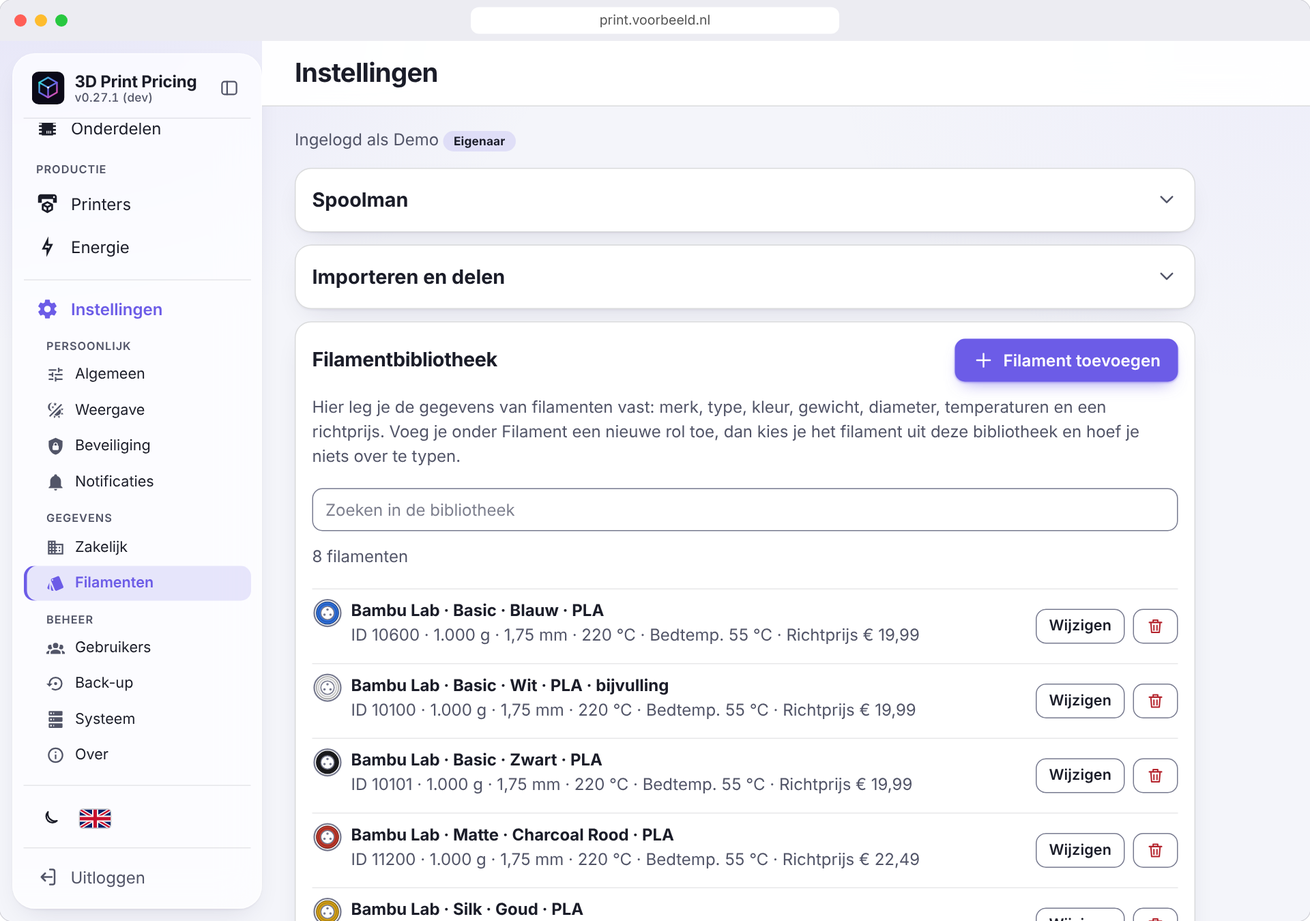
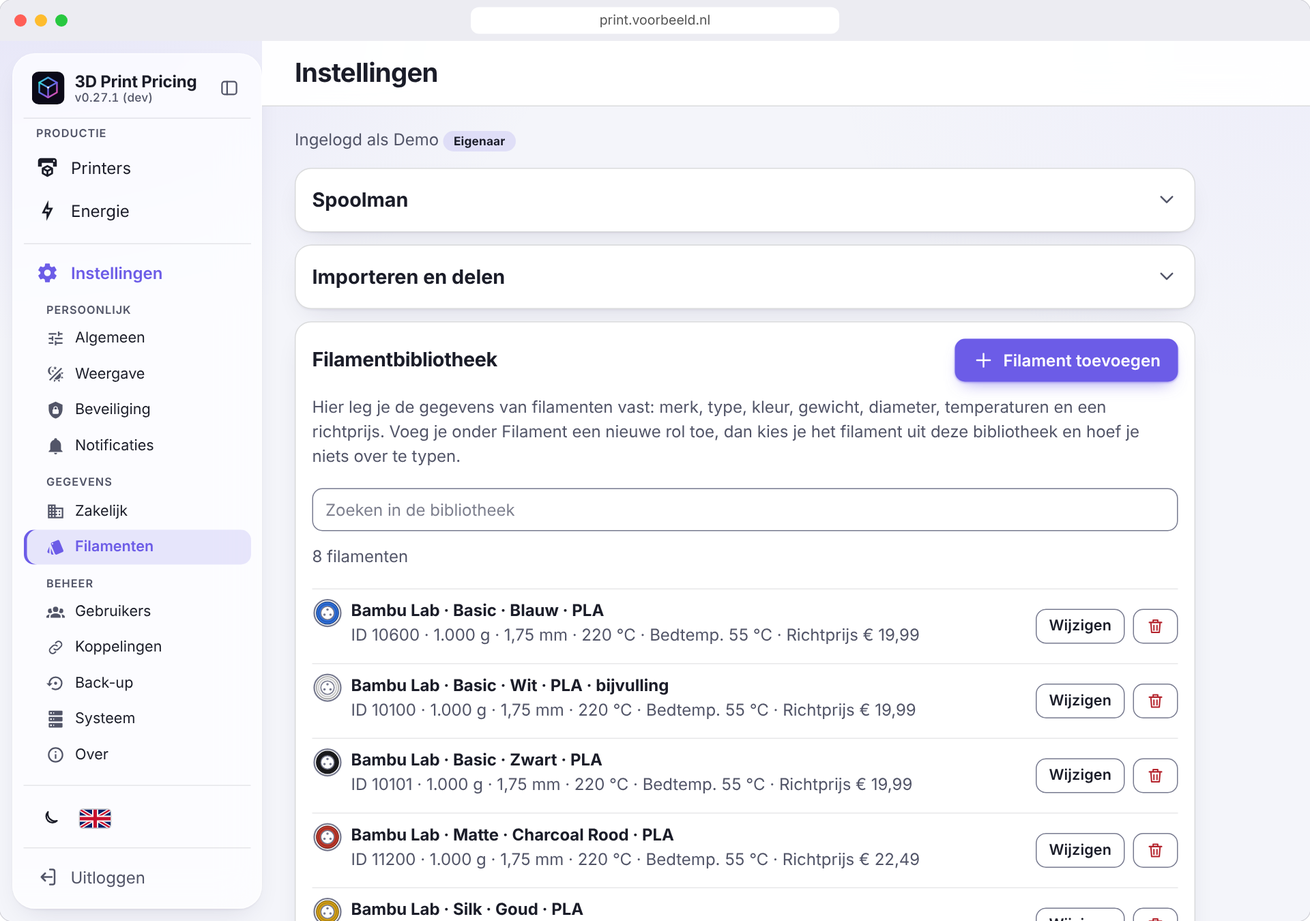
feat(settings): Integrations, to manage API keys and webhooks
Settings -> Beheer -> Koppelingen, for administrators. API keys: the
address of the API, the keys with their first characters and when they
were last used, making one (shown once, with a copy button) and revoking
one. Webhooks: the endpoints with their state (off and why, messages
waiting or failed, a key that can no longer be read), switching one on
or off, a test message, a new signing key, the delivery log with the
reason of a failure and "send again", and adding one with the events to
report.

The guide gets a section with the fields of the API, the message, how to
check the signature and the retry schedule; both READMEs name the
feature; AGENTS.md section 6i holds the rules for later work. The
screenshots are retaken (the settings menu has the new part).

Claude-Session: https://claude.ai/code/session_01KSdu54AFun4xRkPWcygQm9

Changed region(s): [[0.0312, 0.1244, 0.125, 0.7156], [0.0625, 0.7778, 0.0938, 0.8089]]

diff --git a/frontend/js/integrations.js b/frontend/js/integrations.js
@@ -1,0 +1,187 @@
+// Settings -> Koppelingen (administrators only; the server refuses these calls to anyone else): API keys, with which another application
+// reads orders, invoices and customers, and webhooks, which tell another application that something happened. A key and a signing key are
+// shown once, when they are made: the server keeps only a hash of the first and a sealed copy of the second.
+import { api } from './api.js';
+import { formatDateTime, t } from './i18n.js';
+import { confirmIdentity } from './password.js';
+import { field, fill, h, icon, switchRow, toast } from './ui.js';
+
+// What a webhook can be told: [name the server knows it by, label key]. The order is the server's.
+const EVENT_LABELS = { 'invoice.created': 'hooks.ev_invoice_created', 'invoice.updated': 'hooks.ev_invoice_updated', 'order.created': 'hooks.ev_order_created',
+  'order.updated': 'hooks.ev_order_updated', 'order.status_changed': 'hooks.ev_order_status', 'order.deleted': 'hooks.ev_order_deleted', ping: 'hooks.ev_ping' };
+const STATE_LABELS = { pending: 'hooks.state_pending', delivered: 'hooks.state_delivered', dead: 'hooks.state_dead' };
+const eventName = (event) => (EVENT_LABELS[event] ? t(EVENT_LABELS[event]) : event);
+const when = (value) => (value ? formatDateTime(value) : '—');
+
+/** The box that shows a fresh key, with a Copy button: the only time it can be seen. */
+function onceBox(value, title, hint) {
+  const input = h('input', { type: 'text', class: 'mono', readonly: true, value, 'aria-label': title, onfocus: (e) => e.target.select() });
+  return h('div', { class: 'notice info stack', role: 'status' },
+    h('strong', {}, title),
+    h('div', { class: 'row nowrap' }, input, h('button', { class: 'btn', type: 'button', onclick: async () => {
+      try { await navigator.clipboard.writeText(value); toast(t('common.copied')); } catch { input.select(); toast(t('common.copy_failed'), 'error'); }
+    } }, icon('copy'), h('span', {}, t('common.copy')))),
+    h('p', { class: 'hint' }, hint));
+}
+
+function keysCard() {
+  const list = h('div', { class: 'stack' }, h('p', { class: 'muted' }, t('common.loading')));
+  const shown = h('div');
+  const name = h('input', { type: 'text', autocomplete: 'off', maxlength: 60, required: true, placeholder: t('keys.name_ph') });
+  const address = `${location.origin}/api/v1`;
+
+  async function load() {
+    let data;
+    try { data = await api('GET', '/api/integrations/keys'); } catch (e) { fill(list, h('p', { class: 'error', role: 'alert' }, e.message)); return; }
+    fill(list, data.keys.length ? h('ul', { class: 'plain-list' }, data.keys.map((key) => h('li', { class: 'list-row' },
+      h('div', {}, h('strong', {}, key.name), ' ', h('code', {}, `${key.shown}…`),
+        h('p', { class: 'muted' }, `${t('keys.made', { date: when(key.created_at) })} · ${key.last_used_at ? t('keys.used', { date: when(key.last_used_at) }) : t('keys.never_used')}`)),
+      h('button', { class: 'btn small danger', type: 'button', onclick: () => revoke(key) }, icon('trash'), h('span', {}, t('keys.revoke'))))))
+      : h('p', { class: 'muted' }, t('keys.none')));
+  }
+
+  async function create(e) {
+    e.preventDefault();
+    const proof = await confirmIdentity({ action: 'api-key-create', title: t('keys.confirm_title'), message: t('keys.confirm_msg'), confirmLabel: t('keys.make') });
+    if (!proof) return;                                              // cancelled: nothing is made
+    try {
+      const made = await api('POST', '/api/integrations/keys', { name: name.value.trim(), ...proof });
+      name.value = '';
+      fill(shown, onceBox(made.key, t('keys.once_title', { name: made.item.name }), t('keys.once_hint')));
+      load();
+    } catch (err) { toast(err.message, 'error'); }
+  }
+
+  async function revoke(key) {
+    const proof = await confirmIdentity({ action: 'api-key-revoke', target: key.id, title: t('keys.revoke_title'),
+      message: t('keys.revoke_msg', { name: key.name }), confirmLabel: t('keys.revoke') });
+    if (!proof) return;
+    try { await api('DELETE', `/api/integrations/keys/${key.id}`, proof); toast(t('keys.revoked', { name: key.name })); fill(shown); load(); } catch (e) { toast(e.message, 'error'); }
+  }
+
+  load();
+  return h('div', { class: 'glass card stack' },
+    h('h2', {}, t('keys.title')),
+    h('p', { class: 'muted' }, t('keys.intro')),
+    h('dl', { class: 'kv' }, h('span', {}, t('keys.address')), h('strong', {}, h('code', {}, address))),
+    list, shown,
+    h('form', { class: 'row', onsubmit: create }, h('div', { class: 'grow' }, field(t('keys.name'), name, t('keys.name_hint'))),
+      h('button', { class: 'btn primary', type: 'submit' }, icon('plus'), h('span', {}, t('keys.make')))));
+}
+
+function hooksCard() {
+  const list = h('div', { class: 'stack' }, h('p', { class: 'muted' }, t('common.loading')));
+  const shown = h('div');
+  const name = h('input', { type: 'text', autocomplete: 'off', maxlength: 60, required: true, placeholder: t('hooks.name_ph') });
+  const url = h('input', { type: 'url', inputmode: 'url', autocomplete: 'off', maxlength: 500, required: true, placeholder: 'https://finance.example.nl/hooks/printpricing' });
+  const picks = h('div', { class: 'checks' });
+  let events = [];
+
+  const drawPicks = () => fill(picks, events.map((event) => h('label', { class: 'check' },
+    h('input', { type: 'checkbox', value: event, checked: event.startsWith('invoice.') }), eventName(event))));
+  const picked = () => [...picks.querySelectorAll('input:checked')].map((box) => box.value);
+
+  /** The last messages to one address: what, how it went and why not, with "send again" for one that was given up. */
+  function logOf(endpoint) {
+    const body = h('div', { class: 'stack' });
+    async function draw() {
+      fill(body, h('p', { class: 'muted' }, t('common.loading')));
+      try {
+        const { deliveries } = await api('GET', `/api/integrations/webhooks/${endpoint.id}/deliveries`);
+        fill(body, deliveries.length ? h('ul', { class: 'plain-list hook-log' }, deliveries.map((d) => h('li', { class: 'list-row' },
+          h('div', {}, h('strong', {}, eventName(d.event)), ' ', h('span', { class: `pill ${d.state === 'delivered' ? 'ok' : d.state === 'dead' ? 'error' : 'warn'}` }, t(STATE_LABELS[d.state])),
+            h('p', { class: 'muted' }, [when(d.created_at), t('hooks.attempts', { n: d.attempts }),
+              d.last_error ? t(d.last_error, { code: d.last_status ?? '' }) : null,
+              d.state === 'pending' && d.next_attempt_at ? t('hooks.next', { date: when(d.next_attempt_at) }) : null].filter(Boolean).join(' · '))),
+          d.state === 'dead' && d.event !== 'ping' ? h('button', { class: 'btn small', type: 'button', onclick: async () => {
+            try { await api('POST', `/api/integrations/webhooks/${endpoint.id}/deliveries/${d.id}/retry`); toast(t('hooks.queued')); draw(); load(); } catch (e) { toast(e.message, 'error'); }
+          } }, icon('sync'), h('span', {}, t('hooks.retry'))) : null))) : h('p', { class: 'muted' }, t('hooks.log_empty')));
+      } catch (e) { fill(body, h('p', { class: 'error', role: 'alert' }, e.message)); }
+    }
+    return h('details', { ontoggle: (e) => { if (e.target.open) draw(); } }, h('summary', {}, t('hooks.log')), body);
+  }
+
+  function row(endpoint) {
+    const state = [
+      endpoint.enabled ? null : h('span', { class: 'pill warn' }, endpoint.disabled_reason === 'failing' ? t('hooks.off_failing') : endpoint.disabled_reason === 'gone' ? t('hooks.off_gone') : t('hooks.off')),
+      endpoint.readable ? null : h('span', { class: 'pill error' }, t('hooks.unreadable')),
+      endpoint.waiting ? h('span', { class: 'pill' }, t('hooks.waiting', { n: endpoint.waiting })) : null,
+      endpoint.dead ? h('span', { class: 'pill error' }, t('hooks.dead', { n: endpoint.dead })) : null];
+    return h('li', { class: 'hook stack' },
+      h('div', { class: 'list-row' },
+        h('div', {}, h('strong', {}, endpoint.name), ' ', state, h('p', { class: 'muted hint breakable' }, endpoint.url),
+          h('p', { class: 'muted' }, endpoint.events.map(eventName).join(' · '))),
+        h('div', { class: 'row' },
+          h('button', { class: 'btn small', type: 'button', onclick: (e) => test(endpoint, e.currentTarget) }, t('hooks.test')),
+          h('button', { class: 'btn small', type: 'button', onclick: () => rotate(endpoint) }, t('hooks.rotate')),
+          h('button', { class: 'btn small danger', type: 'button', 'aria-label': t('common.delete_named', { name: endpoint.name }), onclick: () => remove(endpoint) }, icon('trash')))),
+      switchRow(t('hooks.enabled'), endpoint.failing_since ? t('hooks.failing_since', { date: when(endpoint.failing_since) }) : t('hooks.enabled_hint'), endpoint.enabled, async (on) => {
+        try { await api('PATCH', `/api/integrations/webhooks/${endpoint.id}`, { enabled: on }); } catch (e) { toast(e.message, 'error'); }
+        load();
+      }),
+      logOf(endpoint));
+  }
+
+  async function load() {
+    let data;
+    try { data = await api('GET', '/api/integrations/webhooks'); } catch (e) { fill(list, h('p', { class: 'error', role: 'alert' }, e.message)); return; }
+    if (!events.length) { events = data.events; drawPicks(); }
+    fill(list, data.endpoints.length ? h('ul', { class: 'plain-list hooks' }, data.endpoints.map(row)) : h('p', { class: 'muted' }, t('hooks.none')));
+  }
+
+  async function create(e) {
+    e.preventDefault();
+    if (!picked().length) { toast(t('hooks.pick_event'), 'error'); return; }
+    const proof = await confirmIdentity({ action: 'webhook-create', title: t('hooks.confirm_title'), message: t('hooks.confirm_msg'), confirmLabel: t('hooks.add') });
+    if (!proof) return;
+    try {
+      const made = await api('POST', '/api/integrations/webhooks', { name: name.value.trim(), url: url.value.trim(), events: picked(), ...proof });
+      name.value = '';
+      url.value = '';
+      fill(shown, onceBox(made.signing_key, t('hooks.once_title', { name: made.endpoint.name }), t('hooks.once_hint')));
+      load();
+    } catch (err) { toast(err.message, 'error'); }
+  }
+
+  async function test(endpoint, button) {
+    button.disabled = true;
+    try { const res = await api('POST', `/api/integrations/webhooks/${endpoint.id}/test`); toast(t('hooks.test_ok', { code: res.status })); } catch (e) { toast(e.message, 'error'); }
+    button.disabled = false;
+  }
+
+  async function rotate(endpoint) {
+    const proof = await confirmIdentity({ action: 'webhook-rotate', target: endpoint.id, title: t('hooks.rotate_title'),
+      message: t('hooks.rotate_msg', { name: endpoint.name }), confirmLabel: t('hooks.rotate') });
+    if (!proof) return;
+    try {
+      const made = await api('POST', `/api/integrations/webhooks/${endpoint.id}/rotate`, proof);
+      fill(shown, onceBox(made.signing_key, t('hooks.once_title', { name: endpoint.name }), t('hooks.once_hint')));
+      load();
+    } catch (e) { toast(e.message, 'error'); }
+  }
+
+  async function remove(endpoint) {
+    const proof = await confirmIdentity({ action: 'webhook-delete', target: endpoint.id, title: t('hooks.delete_title'),
+      message: t('hooks.delete_msg', { name: endpoint.name }), confirmLabel: t('common.delete') });
+    if (!proof) return;
+    try { await api('DELETE', `/api/integrations/webhooks/${endpoint.id}`, proof); toast(t('hooks.deleted', { name: endpoint.name })); fill(shown); load(); } catch (e) { toast(e.message, 'error'); }
+  }
+
+  load();
+  return h('div', { class: 'glass card stack' },
+    h('h2', {}, t('hooks.title')),
+    h('p', { class: 'muted' }, t('hooks.intro')),
+    list, shown,
+    h('form', { class: 'stack hook-form', onsubmit: create },
+      h('h3', {}, t('hooks.new')),
+      h('div', { class: 'two' }, field(t('hooks.url'), url, t('hooks.url_hint')), field(t('hooks.name'), name)),
+      h('div', { class: 'field' }, h('span', { class: 'lbl' }, t('hooks.events')), picks),
+      h('div', { class: 'row' }, h('button', { class: 'btn primary', type: 'submit' }, icon('plus'), h('span', {}, t('hooks.add'))))));
+}
+
+export function integrationsCards() {
+  return [
+    h('p', { class: 'muted page-intro' }, t('integrations.intro')),
+    keysCard(),
+    hooksCard()];
+}

diff --git a/frontend/js/settings.js b/frontend/js/settings.js
@@ -4,6 +4,7 @@ import { filamentLibraryCards } from './filament-library.js';
 import { iosSteps, installState, onInstallChange, promptInstall } from './install.js';
 import { formatDate, formatDateTime, formatTime, t } from './i18n.js';
 import { langSwitch } from './langswitch.js';
+import { integrationsCards } from './integrations.js';
 import { confirmIdentity, passwordCard } from './password.js';
 import { currentSubscription, disablePush, enablePush, forgetPush, pushSupport, thisDeviceFingerprint } from './push.js';
 import { applyNavGlass, confirmDialog, fmt, ROUNDINGS, field, fill, h, icon, navStyle, numberInput, saveBlob, switchRow, toast } from './ui.js';
@@ -874,13 +875,13 @@ function aboutCards(part) {
 // A regular user does not see the parts that are for administrators (the server refuses them whatever the screen shows).
 const SECTIONS = [['algemeen', 'settings.tab_general'], ['weergave', 'settings.tab_appearance'], ['beveiliging', 'settings.tab_security'],
   ['zakelijk', 'settings.tab_business'], ['filamenten', 'settings.tab_filaments'], ['notificaties', 'settings.tab_notifications'],
-  ['gebruikers', 'settings.tab_users'], ['ai', 'settings.tab_ai'], ['backup', 'settings.tab_backup'], ['systeem', 'settings.tab_system'], ['over', 'settings.tab_about']];
-const ADMIN_SECTIONS = ['zakelijk', 'gebruikers', 'ai', 'backup', 'systeem', 'over'];
+  ['gebruikers', 'settings.tab_users'], ['koppelingen', 'settings.tab_integrations'], ['ai', 'settings.tab_ai'], ['backup', 'settings.tab_backup'], ['systeem', 'settings.tab_system'], ['over', 'settings.tab_about']];
+const ADMIN_SECTIONS = ['zakelijk', 'gebruikers', 'koppelingen', 'ai', 'backup', 'systeem', 'over'];
 // How the menu is grouped and which icon each part has. A part is only shown when `settingsMenu()` lets it through, a group without parts not at all.
 const GROUPS = [['settings.group_personal', ['algemeen', 'weergave', 'beveiliging', 'notificaties']],
-  ['settings.group_data', ['zakelijk', 'filamenten']], ['settings.group_admin', ['gebruikers', 'ai', 'backup', 'systeem', 'over']]];
+  ['settings.group_data', ['zakelijk', 'filamenten']], ['settings.group_admin', ['gebruikers', 'koppelingen', 'ai', 'backup', 'systeem', 'over']]];
 const SECTION_ICONS = { algemeen: 'tune', weergave: 'theme-light-dark', beveiliging: 'shield-lock', notificaties: 'bell', zakelijk: 'domain',
-  filamenten: 'palette-swatch', gebruikers: 'account-group', ai: 'creation', backup: 'backup-restore', systeem: 'server', over: 'information-outline' };
+  filamenten: 'palette-swatch', gebruikers: 'account-group', koppelingen: 'link', ai: 'creation', backup: 'backup-restore', systeem: 'server', over: 'information-outline' };
 
 /** The parts of the settings this person sees, grouped as the menu shows them: [[group label key, [[route, label key, icon], ...]], ...]. There is one
     list, for the menu on the left (where the parts stand under Settings) and for the menu of the page itself (a phone, or the menu folded away). */
@@ -1051,6 +1052,7 @@ export function settingsView(ctx, requested) {
     filamenten: () => [spoolmanCard(undefined, { configure: true }), ...filamentLibraryCards()],
     notificaties: () => notificationsCards(ctx),
     gebruikers: () => usersCards(),
+    koppelingen: () => integrationsCards(),
     ai: () => [aiSettingsCard(), aiLogCard()],
     backup: () => [backupCard()],
     systeem: () => [...aboutCards('systeem'), resetCard()],

diff --git a/frontend/css/app.css b/frontend/css/app.css
@@ -984,3 +984,13 @@ a.cell-title:hover { color: var(--accent); text-decoration: underline; text-unde
 .item-thumb.placeholder { display: inline-grid; place-items: center; background: var(--track); color: var(--text-muted); }
 .data-table .item-thumb { width: 36px; height: 36px; }
 .image-preview { max-width: min(100%, 200px); max-height: 200px; border: 1px solid var(--lijn-strong); border-radius: var(--radius-sm); object-fit: contain; }
+
+/* Settings > Integrations: a key that is shown once, the endpoints with their state, and what a webhook is told about. */
+input.mono { font-family: ui-monospace, Menlo, Consolas, monospace; font-size: .85rem; }
+.hooks { display: grid; gap: 12px; }
+.hook { padding: 12px; border: 1px solid var(--lijn); border-radius: var(--radius-sm); }
+.hook .list-row:first-child { border-top: 0; padding-top: 0; }
+.hook .pill { margin-right: 4px; }
+.hook-log .list-row { align-items: flex-start; }
+.hook-form { padding-top: 12px; border-top: 1px solid var(--lijn); }
+.checks { display: grid; gap: 0 16px; grid-template-columns: repeat(auto-fill, minmax(min(100%, 16rem), 1fr)); }

diff --git a/frontend/sw.js b/frontend/sw.js
@@ -14,7 +14,7 @@ const CACHE = `pp-shell-${TOKEN || 'dev'}`;
 // with this list), so the installed app starts without the network after its first visit.
 const PAGE = '/';
 const SHELL = ['/css/app.css', '/js/main.js', '/js/ai-images.js', '/js/api.js', '/js/auth-views.js', '/js/build.js', '/js/bulk-scan.js', '/js/customers.js',
-  '/js/filament-library.js', '/js/filament-ui.js', '/js/i18n.js', '/js/install.js', '/js/langswitch.js', '/js/listview.js', '/js/mdi.js', '/js/model-viewer.js', '/js/orders.js',
+  '/js/filament-library.js', '/js/filament-ui.js', '/js/i18n.js', '/js/install.js', '/js/langswitch.js', '/js/listview.js', '/js/integrations.js', '/js/mdi.js', '/js/model-viewer.js', '/js/orders.js',
   '/js/password.js', '/js/projects.js', '/js/push.js', '/js/pwa.js', '/js/release.js', '/js/resources.js', '/js/scanner.js', '/js/settings.js', '/js/spoolman.js',
   '/js/theme-boot.js', '/js/ui.js', '/js/updates.js', '/js/users.js', '/lang/nl.json', '/lang/en.json'];
 const versioned = (path) => (TOKEN ? `${path}?v=${TOKEN}` : path);

diff --git a/docs/handleiding.md b/docs/handleiding.md
@@ -513,6 +513,7 @@ De onderdelen van *Instellingen* staan in het **menu links, onder *Instellingen*
 | **Zakelijk** | btw en afronding, bedrijfsgegevens, factuursjabloon; alleen zichtbaar voor beheerders, en als de schakelaar *Zakelijk* onder *Algemeen* aan staat (de voorkeur `business_mode`, per account) |
 | **Filamenten** | de filamentbibliotheek: specificaties van filamenten, een Bambu Lab-factuur inlezen, JSON-export en -import en synchroniseren met GitHub; zie *Filamentbibliotheek* |
 | **Notificaties** | meldingen (dit apparaat, testmelding, verbindingscontrole, apparatenlijst) en stille uren; *nieuwe versie* en de drempels voor *filament bijna op* alleen voor beheerders |
+| **Koppelingen** | alleen beheerders: API-sleutels waarmee een andere applicatie bestellingen en facturen leest, en webhooks die een seintje geven als er iets gebeurt (zie *Koppelingen: API-sleutels en webhooks*) |
 | **Gebruikers** | alleen beheerders: wie mag inloggen, uitnodigen, nieuwe inloglink, beheerder maken, verwijderen; zie *Gebruikers en rollen* |
 | **AI-afbeeldingen** | alleen beheerders, en alleen als `AI_IMAGES_ENABLED=TRUE`: de OpenAI-sleutel en het logboek |
 | **Back-up** | alleen beheerders: back-up en herstel, de automatische back-ups en de lijst van back-ups op de server (zie *Back-up in de app*) |
@@ -522,6 +523,61 @@ De onderdelen van *Instellingen* staan in het **menu links, onder *Instellingen*
 Het menu links is gegroepeerd (*Verkoop*, *Voorraad*, *Productie*), met *Instellingen* onderaan. Daaronder staan de knop voor **licht of donker** (de maan of de zon: wat je krijgt als je klikt; *Systeem* kies je onder *Instellingen → Weergave*) en de taalvlag; *Uitloggen* staat daar los onder. Het menu klap je in en uit met de knop **bovenaan**, naast de naam (op een telefoon staan thema en taal bovenaan *Meer*, *Uitloggen* onderaan). *Zakelijk* verbergt alleen dat onderdeel van de instellingen; het menu
 *Bestellingen* blijft gewoon zichtbaar. Een onderdeel dat niet getoond wordt (bijvoorbeeld *Zakelijk* terwijl het uit staat) valt terug op
 *Algemeen*.
+
+## Koppelingen: API-sleutels en webhooks
+
+*Instellingen → Beheer → Koppelingen* (alleen beheerders). Hiermee kan een andere applicatie (je boekhouding of finance-app, een eigen script) bestellingen en
+facturen uit deze app lezen, en geeft deze app een seintje als er iets gebeurt. Er is nog geen kant-en-klare koppeling met een verkoopkanaal of boekhoudpakket:
+dit is de basis waar zo'n koppeling op aansluit.
+
+### API-sleutels en de API (`/api/v1`)
+
+- **Een sleutel maken** vraagt een verse bevestiging (passkey, of wachtwoord plus code). De sleutel (`ppk_…`) zie je **één keer**; de server bewaart alleen de SHA-256
+  ervan. *Intrekken* werkt direct. Er kunnen hooguit 20 sleutels zijn. De lijst toont de eerste tekens, wanneer hij gemaakt is en wanneer hij voor het laatst gebruikt is.
+- **Meesturen**: `Authorization: Bearer ppk_…`. Een sleutel werkt **alleen** onder `/api/v1` en kan alleen lezen; op de rest van de app (ook alles voor beheerders)
+  wordt hij geweigerd. Andersom werkt een ingelogde browser niet op `/api/v1`. Een sleutel is van niemand persoonlijk: hij blijft werken als degene die hem maakte vertrekt.
+- **Wat erin zit**: wat op een factuur staat. **Kostprijzen, marges en interne notities zitten er niet in.**
+
+| Adres | Geeft |
+|---|---|
+| `GET /api/v1` | of de sleutel werkt: naam, API-versie (`1`), versie van de app, naam van de sleutel |
+| `GET /api/v1/orders` | bestellingen, oudste wijziging eerst. Filters: `status` (`nieuw`, `verwerkt`, `verstuurd`, `afgehandeld`), `invoiced=true|false`, `updated_since=2026-11-11T08:00:00Z`. Pagina's: `limit` (1 t/m 200, standaard 100) en `cursor` (de `next_cursor` van de vorige pagina; `null` = er is niet meer) |
+| `GET /api/v1/orders/<id>` | één bestelling: `number`, `status`, `order_date`, `delivery_date`, `subject`, `customer` (id, klantnummer, naam, adres, e-mail, telefoon), `invoice` (`number`, `date`, `has_pdf`; `null` zolang er geen factuur is), `lines` (omschrijving, aantal, `unit_price` incl. btw, `vat_pct`, `optional`, `total`, `net`, `vat`) en `totals` (`excl`, `vat`, `incl`, en per btw-tarief `by_vat_rate`) |
+| `GET /api/v1/orders/<id>/invoice` | de factuur als PDF, zoals hij gemaakt is (404 als er geen is). Een factuur *maken* doe je in de app |
+| `GET /api/v1/customers`, `GET /api/v1/customers/<id>` | klanten (zonder notities), met dezelfde `updated_since`, `limit` en `cursor` |
+
+Bedragen zijn tekst met twee decimalen (`"180.90"`), tijden zijn UTC. Een fout is `{"error": "<zin in de taal van het verzoek>", "code": "<vaste sleutel>"}`; reken in code op
+`code`, niet op de zin. **Limieten**: 300 verzoeken per minuut per sleutel (per web-worker; `429` met `Retry-After: 60`), en een adres dat steeds onbekende sleutels aanbiedt
+wordt na 20 pogingen in een kwartier afgeremd. De versie staat in het pad: een veld erbij is geen nieuwe versie, een veld weg of anders wel, en dan blijft `/api/v1` bestaan
+zolang iets het nog gebruikt. De API van de schermen zelf (`/api/orders` en dergelijke) is hier geen onderdeel van en verandert met de schermen mee.
+
+### Webhooks
+
+- **Toevoegen** (met verse bevestiging): het adres van de ontvanger, een naam en waarover je een bericht wilt. Het adres begint met `https://`, of `http://` binnen je eigen
+  netwerk; adressen in het eigen netwerk mogen (je andere applicaties staan daar vaak), alleen link-local-, multicast- en lege adressen worden geweigerd, ook als een naam
+  daar op het moment van versturen naar wijst. Het adres ligt daarna vast; een ander adres is een nieuwe webhook. Hooguit 10 webhooks.
+- **Gebeurtenissen**: `invoice.created` (factuur gemaakt), `invoice.updated` (dezelfde factuur opnieuw gemaakt), `order.created`, `order.updated`, `order.status_changed`
+  (met `previous_status`) en `order.deleted`. Een herstel uit een back-up en de fabrieksinstellingen geven geen berichten per bestelling.
+- **Het bericht** is klein: `{"type": "invoice.created", "timestamp": "2026-11-12T09:00:00Z", "data": {"order_id": "…", "order_number": 12, "status": "nieuw",
+  "invoice_number": "2026-0007", "invoice_date": "2026-11-12", "total": "180.90", "url": "/api/v1/orders/<id>"}}`. Er staan geen klantgegevens en geen regels in;
+  de ontvanger haalt die op met een API-sleutel via `url`.
+- **Ondertekend** volgens [Standard Webhooks](https://www.standardwebhooks.com/): de headers `webhook-id`, `webhook-timestamp` en `webhook-signature`. De **ondertekensleutel**
+  (`whsec_…`) zie je één keer, bij het toevoegen of bij *Nieuwe sleutel*. De ontvanger controleert elk bericht ermee, bijvoorbeeld in Python met het pakket `standardwebhooks`:
+  `Webhook(sleutel).verify(ruwe_body, headers)` (dat weigert ook een bericht dat ouder is dan vijf minuten). Controleer op de **ruwe** bytes, niet op opnieuw opgemaakte JSON.
+- **Afleveren**: binnen ongeveer 15 seconden na de gebeurtenis (zo vaak wordt er gekeken). Elk antwoord `2xx` binnen 10 seconden telt als aangekomen;
+  antwoord dus snel en doe het werk daarna. Lukt het niet, dan volgt een nieuwe poging na ongeveer 1, 5 en 15 minuten, 1, 3, 6, 12 en 24 uur (samen ruim twee dagen), steeds met
+  **hetzelfde bericht en hetzelfde `webhook-id`**. Een bericht kan dus vaker aankomen (*minstens één keer*): laat de ontvanger een `webhook-id` dat hij al zag overslaan.
+  Volgorde is niet gegarandeerd; lees bij twijfel de bestelling opnieuw via de API. Doorverwijzingen worden niet gevolgd.
+- **Afleverlog** per webhook: de laatste 50 berichten met hun toestand (*Wacht*, *Aangekomen*, *Mislukt*), het aantal pogingen en de reden. Een mislukt bericht stuur je
+  met *Opnieuw sturen* nog eens. Berichten die aankwamen of opgegeven zijn, verdwijnen na 30 dagen uit het log. *Testbericht sturen* stuurt direct een `ping` en zegt of
+  die aankwam; van het antwoord van de ontvanger wordt alleen de status bewaard, nooit de inhoud.
+- **Uitgezet**: een webhook die drie dagen lang niets aanneemt, of `410 Gone` antwoordt, wordt uitgezet (dat staat erbij). Zet je hem weer aan, dan gaat wat nog wachtte alsnog weg.
+  Voor een webhook die uit staat wordt niets klaargezet.
+- **`SESSION_SECRET` veranderd?** Dan is de ondertekensleutel niet meer te lezen: de webhook meldt dat en verstuurt niets tot je met *Nieuwe sleutel* een nieuwe maakt (en die
+  bij de ontvanger zet). API-sleutels blijven gewoon werken.
+
+Sleutels, webhook-adressen en het afleverlog zitten **niet in een back-up** (het zijn inloggegevens en ze beschrijven één netwerk) en een herstel laat ze staan; de
+fabrieksinstellingen halen ze weg.
 
 ## AI-afbeeldingen (optioneel)
 

diff --git a/AGENTS.md b/AGENTS.md
@@ -386,6 +386,36 @@ measured on one machine on one day, and names its test.
   `project_images.content` is written once; `test_ai_images.py` lists every `UPDATE` of that table. A kept answer can be shown without a session on the device that kept it: decide that on purpose.
 - **Compression is the app's own** (gzip: its files once, a JSON answer of 1 kB or more per request, `http.compressed`), because the app also runs without a proxy. A download is left alone.
 
+## 6i. Other applications: API keys, `/api/v1` and webhooks
+
+`backend/app/api_keys.py`, `public_api.py`, `webhooks.py`; migration `0006`; `frontend/js/integrations.js` (Settings → Beheer → Koppelingen); tests `tests/test_integrations.py`.
+The user-facing description, with the fields and the retry schedule, is `docs/handleiding.md`, section *Koppelingen*.
+
+- **A key is not a person and not a session.** `ppk_` + 32 random bytes, shown once, only its SHA-256 kept (as an invitation). It is accepted on `/api/v1` and nowhere else,
+  and a session cookie is not accepted there: `public_api._guard` calls `api_keys.authenticate()` and nothing else does, and `auth.load_session` knows nothing of keys. So a key
+  never reaches a write, an administrator route or a confirmation. Never let a key set `g.user_id`, and never accept one on another blueprint; a key that must do more gets its
+  own surface and a decision.
+- **`/api/v1` is a promise to someone else; `/api/orders` and the rest are not.** It is read-only (no route there has another method than GET; a test tries them all), versioned
+  in its path, and holds what is on an invoice: **never `cost_price`, `margin_pct` or a note of the business** (`order_view`, `customer_view` name every field; do not serialise
+  a whole row). Adding a field is fine; removing or renaming one is a `/api/v2`. Its errors carry `code` (the message key) next to the sentence (`http.error_response`).
+- **Making and taking away needs a fresh confirmation bound to the thing** (`password_api._confirm`, `auth._purpose`: `api-key-create`, `api-key-revoke`, `webhook-create`,
+  `webhook-delete`, `webhook-rotate`). Everything under `/api/integrations` is administrator-only (`access.ADMIN_ONLY`, with its lines in `ADMIN_ONLY_CALLS`).
+- **A webhook message is written in the transaction of what it reports**: `webhooks.emit(conn, event, data)` takes the open connection, never one of its own, so there is no
+  message without the change and no change without its message. A new event is a name in `webhooks.EVENTS` (a past-tense fact, added at the end, never renamed), an `emit` in
+  the transaction, a label in `integrations.js` and both language files, and a line in the guide. The message stays small (`orders._event`): which order, its numbers and total,
+  and the `/api/v1` address of the rest. No customer details, no lines.
+- **Signed by the standard, from a module** (baseline §19): Standard Webhooks through the `standardwebhooks` package. Do not write the signature here. The signing key is sealed
+  (`passwords.seal`, `KEY_INFO`), never returned after it was shown once, and unreadable after `SESSION_SECRET` changes: then nothing is sent until it is rotated.
+- **Sending** (`webhooks.run_once`, a worker in every web process, off with `WEBHOOK_WORKER=off` and in tests): the lease of `push.run_outbox_once` (`UPDATE ... RETURNING` moves
+  `next_attempt_at` ahead and counts the attempt), **no connection held while a message is on its way**, then `_settle`. At least once; `BACKOFF` then `dead`; an address that
+  takes nothing for `GIVE_UP_AFTER` or answers 410 is switched off. The body is serialised once (`webhook_deliveries.body`) and a retry sends those bytes with the same `webhook-id`.
+- **The address is an administrator's and may be on the own network** (the owner chose this, as for Spoolman). `check_url` and `send` refuse only what is never an application
+  (link-local, multicast, unspecified), on the resolved address at the moment of sending; redirects are not followed, the answer is not read, and only a status and a reason key
+  are kept. Never store or show what the other side answered. Tests never reach a network: `Net` in `test_integrations.py` replaces `webhooks.requests.request` and `_resolve`.
+- **None of it is in a backup** (keys and signing keys are credentials, the addresses describe one network), a restore leaves them alone, and a factory reset removes them.
+  `test_integrations.py` checks the backup for them; each guard there was checked by breaking it (the confirmation, the binding to one key, a session on `/api/v1`, a cost price in
+  the view, redirects, a message outside the transaction, the lease, the link-local check, the key in the list).
+
 ## 7. Work done in one client leaves the other clients correct
 
 A change to a working convention goes in this file, never in a client's entry file. If a client

diff --git a/README.nl.md b/README.nl.md
@@ -70,6 +70,7 @@ Wie 3D-prints verkoopt moet weten wat elke print kost: filament per gram, machin
 - **Zakelijk bruikbaar**: btw over de verkoopprijs, een marge en een afronding van de prijs per bestelling (op 5/10/50 cent, hele euro's of eindigend op ,95/,99, met je marge als minimum), en een knop om de kosten te blurren als een klant meekijkt.
 - **Elk overzicht werkt hetzelfde**: 3D-modellen, bestellingen, klanten, filament, verpakking, onderdelen en printers toon je als tegels of als lijst; je zoekt terwijl je typt, filtert, sorteert op een kolom en groepeert rollen per soort. Bij een 3D-model bewaar je meerdere links: de pagina van het model en de plekken waar het te koop staat (Marktplaats, Bol.com, je webshop).
 - **Klanten, bestellingen en facturen**: klanten met klantnummer, bestellingen met meerdere prints, een status van *nieuw* tot *afgehandeld* en een factuur als PDF met je logo, een uniek factuurnummer en een SEPA-betaal-QR. Wil je je eigen briefpapier, dan kan dat als Word- of PDF-sjabloon.
+- **Koppelen met je andere applicaties**: met een API-sleutel leest je boekhouding of finance-app bestellingen, factuurgegevens en de factuur-PDF (alleen-lezen, zonder kostprijzen), en een ondertekende webhook geeft een seintje zodra je een factuur maakt of een bestelling verandert.
 - **Inloggen met passkeys**: geen wachtwoord dat kan lekken. Of een wachtwoord waar een passkey niet kan werken (een IP-adres in je eigen netwerk), optioneel met tweestapsverificatie, en herstelcodes voor noodgevallen.
 - **Met meer dan één persoon**: een beheerder nodigt mensen uit met een link voor eenmalig gebruik en iedereen kiest zelf een passkey of wachtwoord, zodat niemand dat van een ander kent. Gewone gebruikers doen het dagelijkse werk; een beheerder beheert ook de gebruikers, de bedrijfsgegevens, back-ups en updates en kan een gewone gebruiker tot beheerder maken.
 - **Een echte app op elk apparaat**: te installeren op het beginscherm van iPhone en Android en op de desktop, werkt met de camera en met meldingen, en spreekt Nederlands en Engels.

diff --git a/README.md b/README.md
@@ -70,6 +70,7 @@ Selling 3D prints means knowing what each one costs: filament by the gram, machi
 - **Business-ready**: VAT on the selling price, a margin and a price rounding per order (to 5/10/50 cents, whole euros, or ending in ,95/,99, with your margin as the minimum), and a button to blur the costs when a customer looks over your shoulder.
 - **Every overview works the same**: 3D models, orders, customers, filament, packaging, parts and printers are shown as tiles or as a list; you search while you type, filter, sort on a column and group rolls per kind. A 3D model keeps several links: the page of the model and the places where it is for sale (Marktplaats, Bol.com, your web shop).
 - **Customers, orders and invoices**: customers with a customer number, orders with several prints each, a status from *new* to *completed*, and a PDF invoice with your logo, a unique invoice number and a SEPA payment QR code. Bring your own Word or PDF letterhead if you like.
+- **Connect your other applications**: with an API key your bookkeeping or finance app reads orders, invoice details and the invoice PDF (read-only, without cost prices), and a signed webhook gives a sign as soon as you make an invoice or an order changes.
 - **Passkey login**: no password to leak. Or a password where a passkey cannot work (an IP address on your own network), optionally with two-step verification, and recovery codes for emergencies.
 - **More than one person**: an administrator invites people with a one-time link, and each chooses their own passkey or password, so nobody ever knows anyone else's. Regular users do the daily work; an administrator also manages users, the company details, backups and updates, and can promote a regular user to administrator.
 - **A real app on every device**: installs on the iPhone and Android home screen and on the desktop, works with the camera and with notifications, and speaks Dutch and English.
